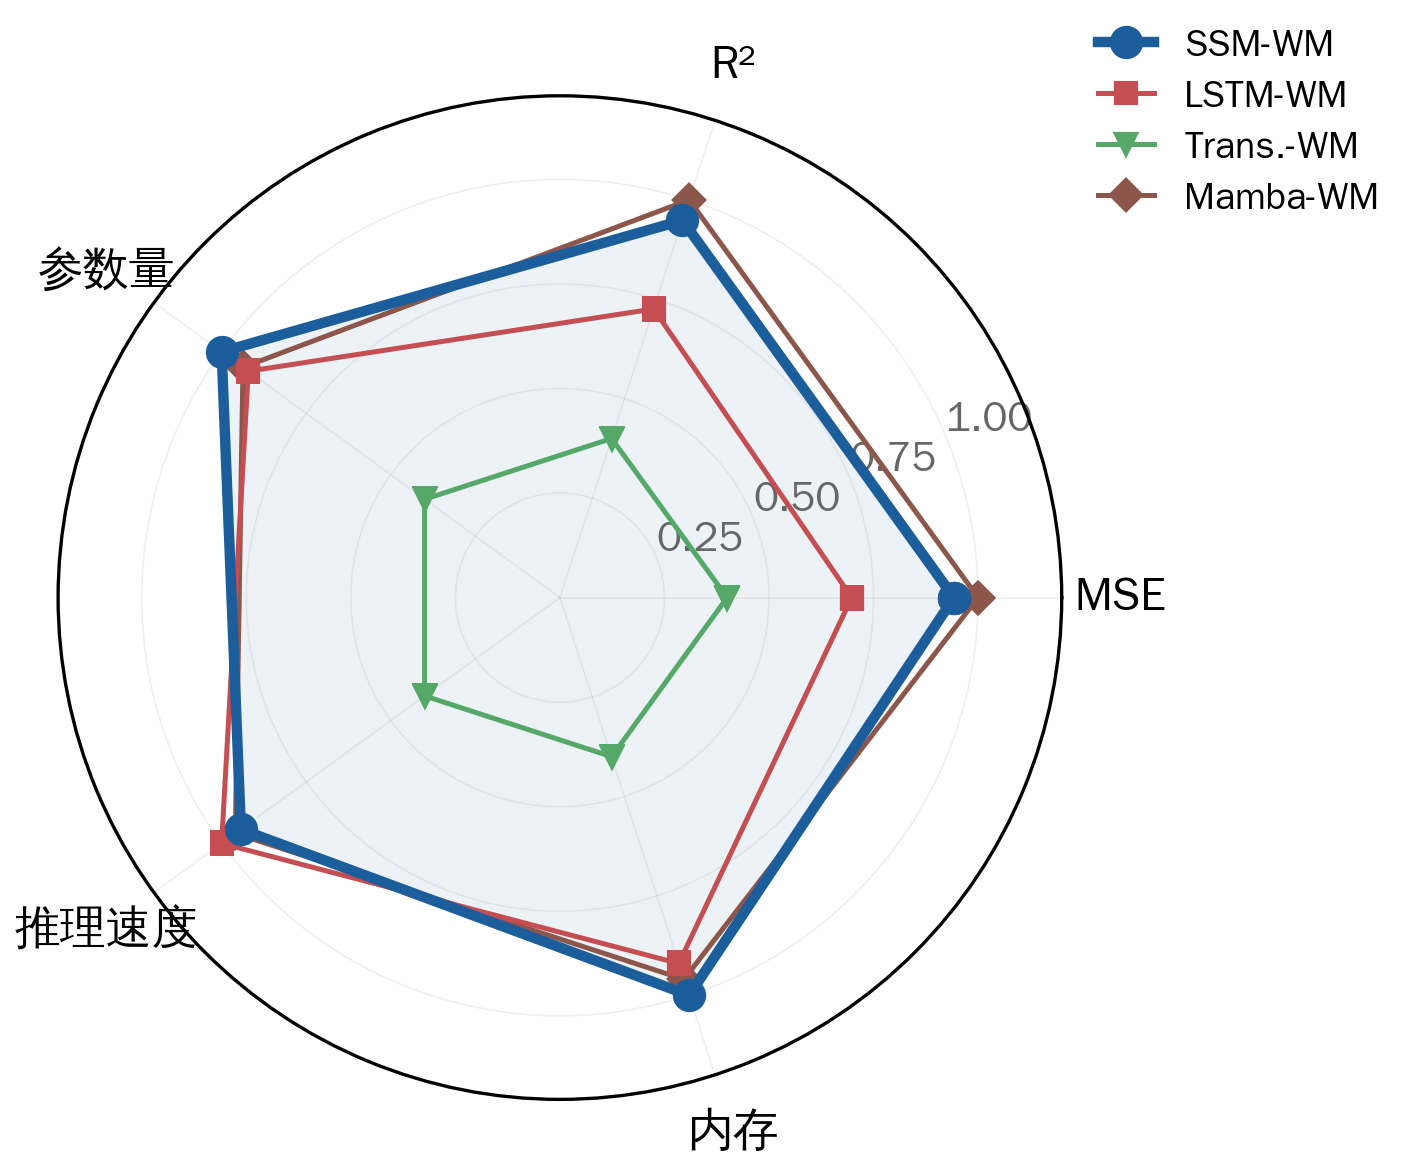
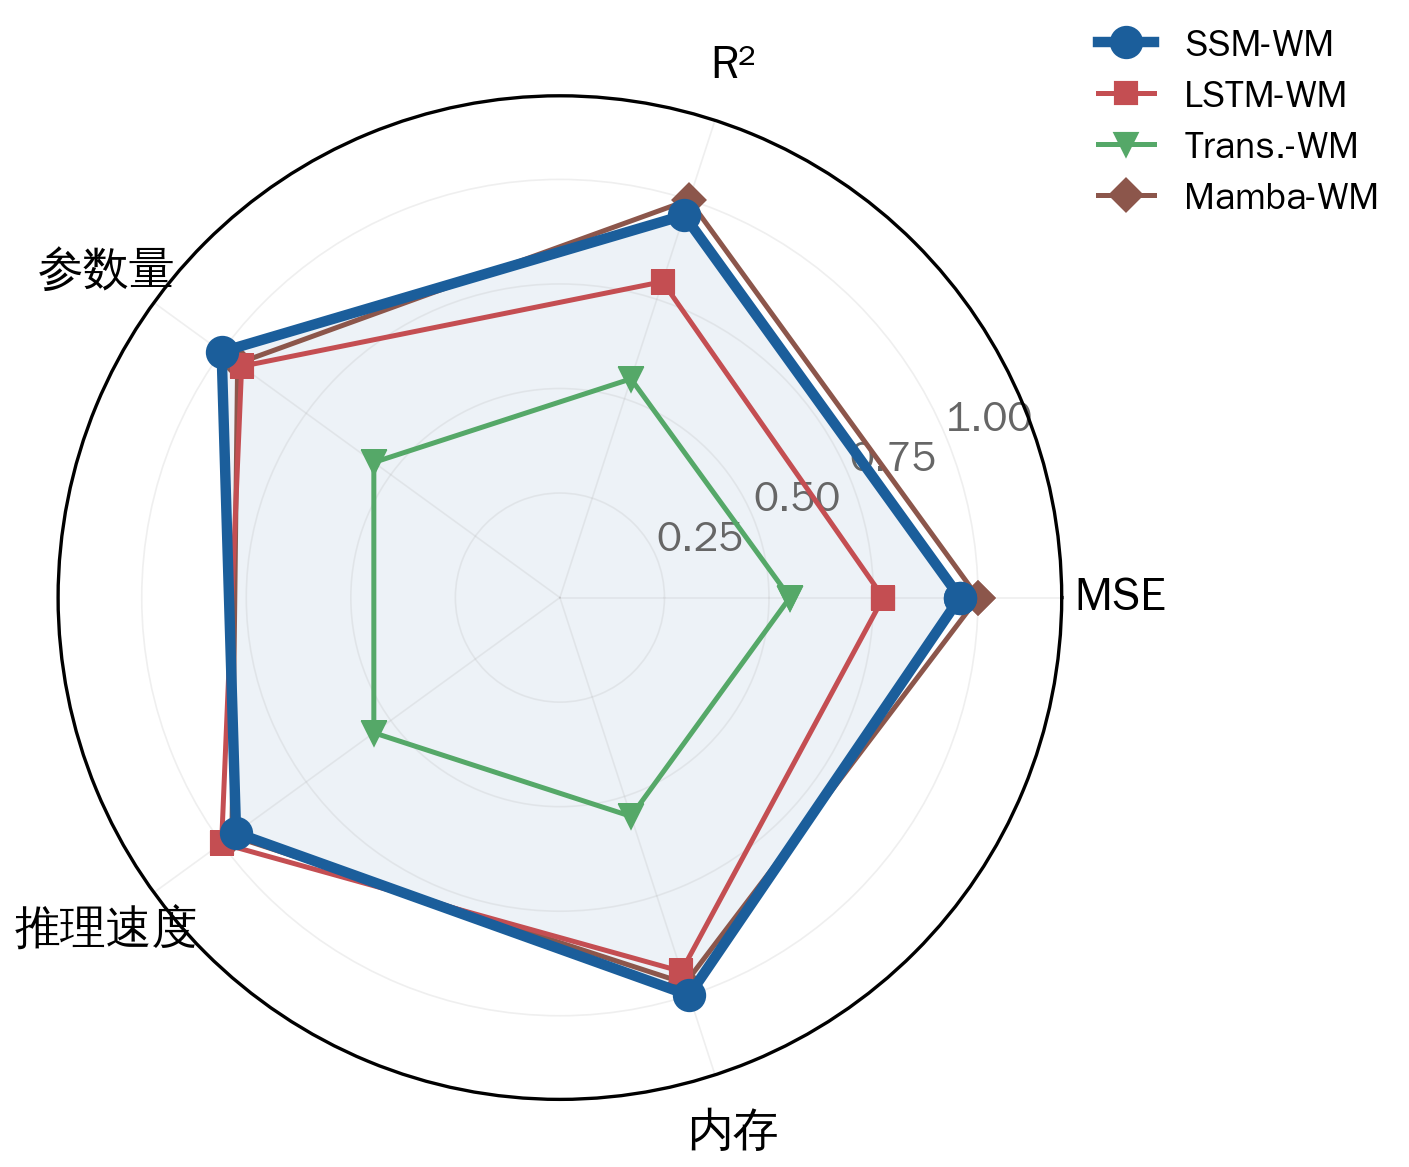
fix: 雷达图floor=0.55

diff --git a/scripts/generate_figures_nature.py b/scripts/generate_figures_nature.py
@@ -280,7 +280,7 @@ def fig6():
     categories = ['MSE', 'R²', '参数量', '推理速度', '内存']
     N = len(categories)
 
-    def normalize(vals, lower_better=True, floor=0.40):
+    def normalize(vals, lower_better=True, floor=0.55):
         mn, mx = min(vals), max(vals)
         if lower_better:
             return [floor + (1 - floor) * (mx - v) / (mx - mn + 1e-8) for v in vals]